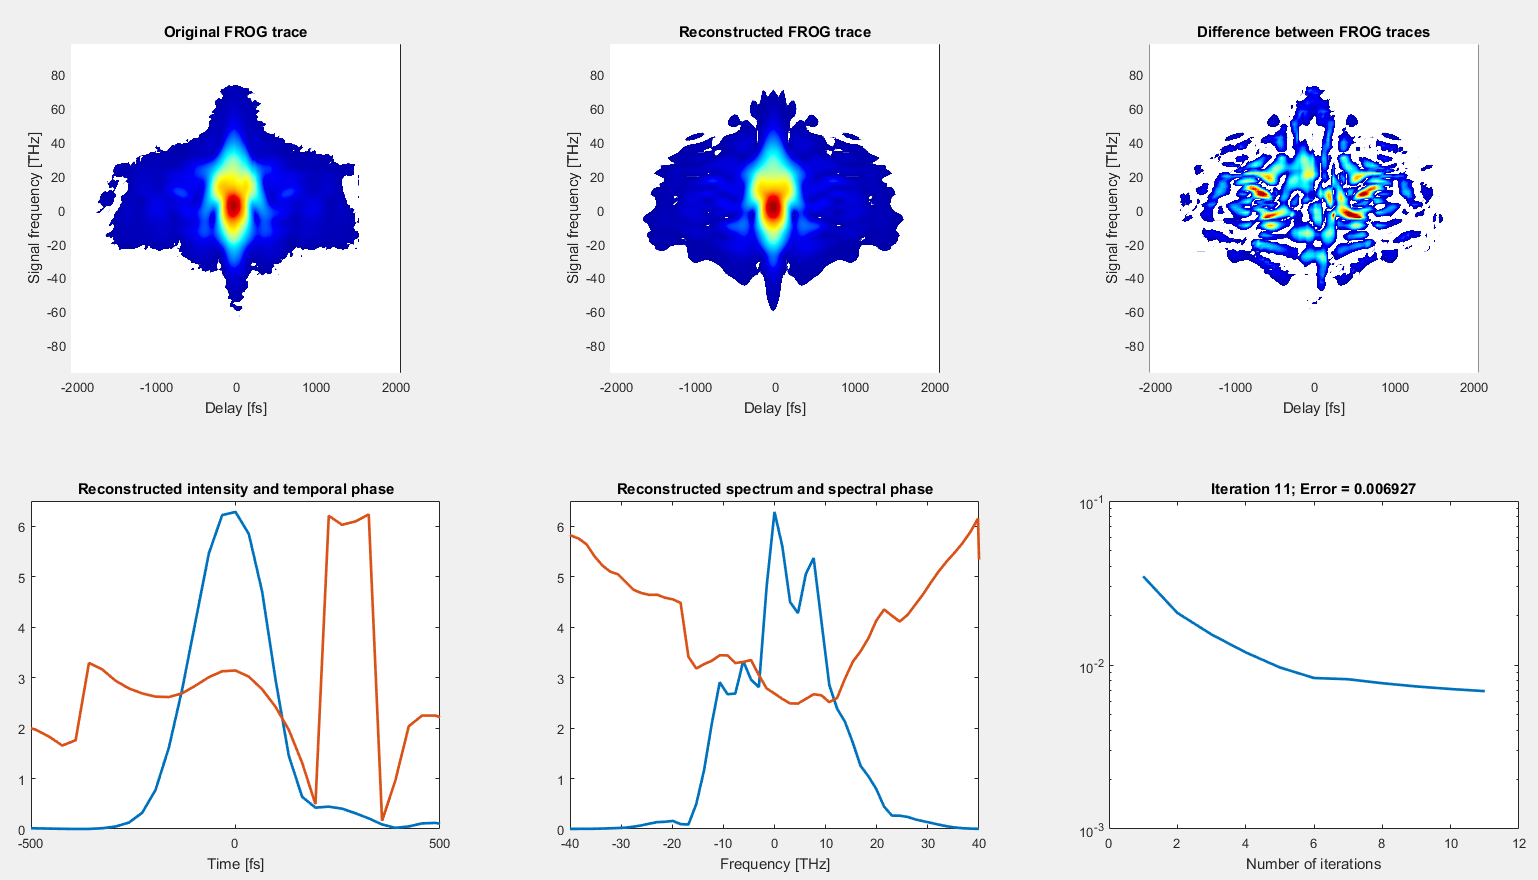
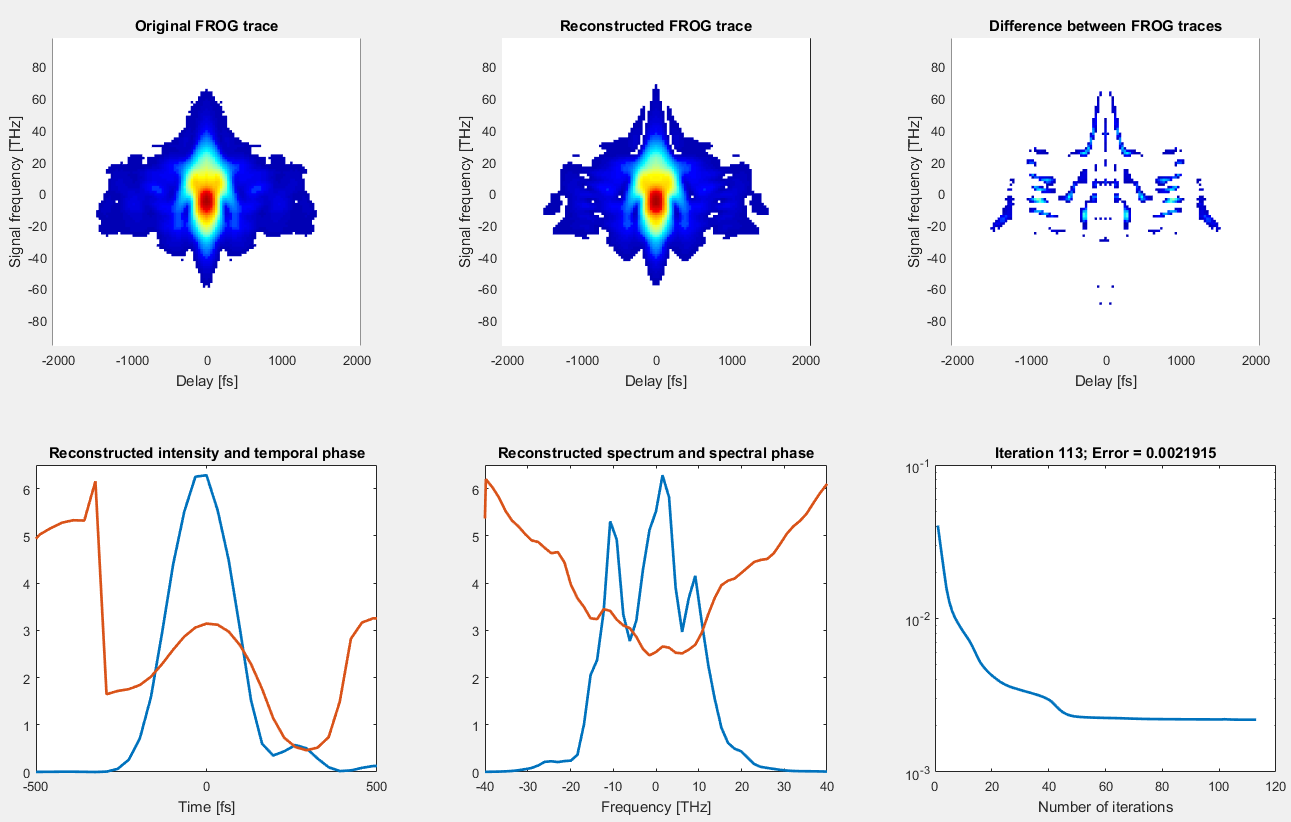
minor

diff --git a/MATLAB version/main.m b/MATLAB version/main.m
@@ -7,7 +7,7 @@ clear;
 close all; 
 
 % general settings
-fullRun = 1;
+fullRun = 0;
 experimentalFROG = dlmread('../test data/60.txt');
 fileName = 'YAG 60';
 
